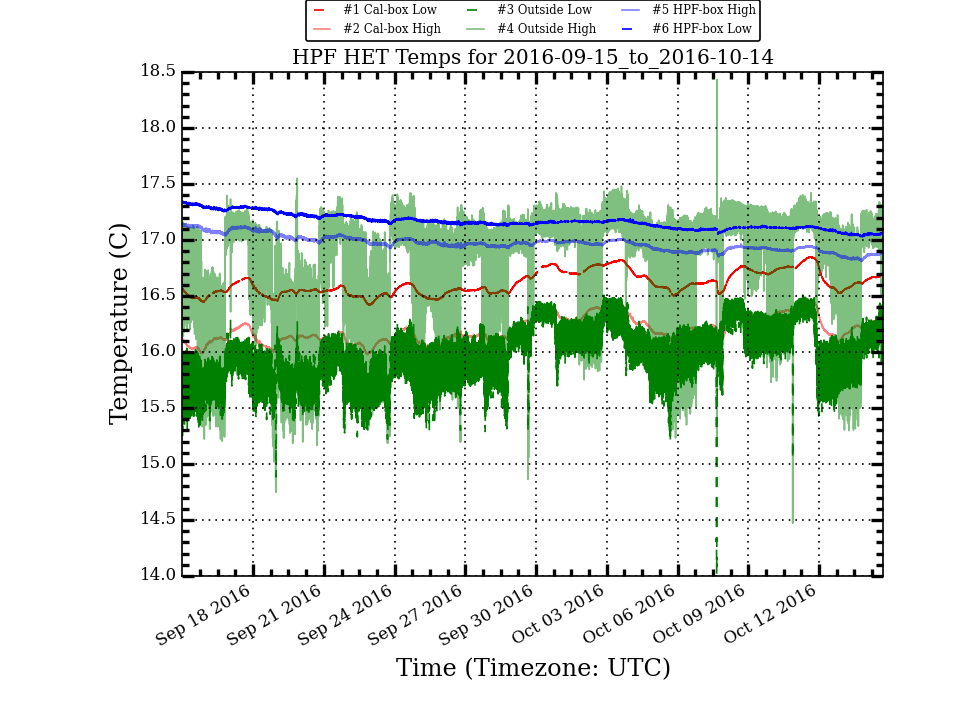
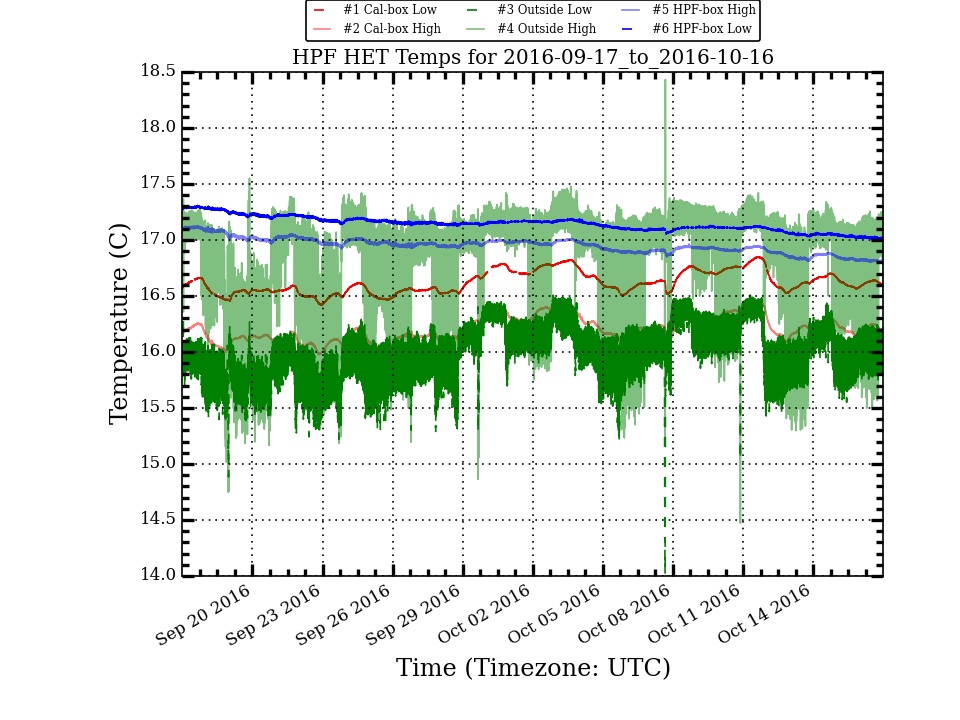
Update HPF Temp Plots

diff --git a/research/hpf_temps/plots/LakeShoreLogTotal_week_stats.html b/research/hpf_temps/plots/LakeShoreLogTotal_week_stats.html
@@ -10,56 +10,56 @@
  </TR>
  <TR>
   <TD>Cal_Low</TD>
-  <TD>16.693</TD>
-  <TD>0.082</TD>
-  <TD>16.705</TD>
+  <TD>16.664</TD>
+  <TD>0.085</TD>
+  <TD>16.637</TD>
   <TD>16.848</TD>
   <TD>16.525</TD>
   <TD>0.323</TD>
  </TR>
  <TR>
   <TD>Cal_High</TD>
-  <TD>16.293</TD>
-  <TD>0.090</TD>
-  <TD>16.299</TD>
+  <TD>16.262</TD>
+  <TD>0.093</TD>
+  <TD>16.238</TD>
   <TD>16.468</TD>
   <TD>16.087</TD>
   <TD>0.381</TD>
  </TR>
  <TR>
   <TD>Out_Low</TD>
-  <TD>16.150</TD>
-  <TD>0.215</TD>
-  <TD>16.181</TD>
+  <TD>16.068</TD>
+  <TD>0.210</TD>
+  <TD>16.076</TD>
   <TD>16.509</TD>
   <TD>15.040</TD>
   <TD>1.469</TD>
  </TR>
  <TR>
   <TD>Out_High</TD>
-  <TD>16.938</TD>
-  <TD>0.407</TD>
-  <TD>17.095</TD>
+  <TD>16.821</TD>
+  <TD>0.428</TD>
+  <TD>16.988</TD>
   <TD>17.422</TD>
   <TD>14.470</TD>
   <TD>2.952</TD>
  </TR>
  <TR>
   <TD>HPF_High</TD>
-  <TD>16.900</TD>
-  <TD>0.036</TD>
-  <TD>16.910</TD>
-  <TD>16.965</TD>
-  <TD>16.809</TD>
-  <TD>0.156</TD>
+  <TD>16.869</TD>
+  <TD>0.041</TD>
+  <TD>16.868</TD>
+  <TD>16.948</TD>
+  <TD>16.802</TD>
+  <TD>0.146</TD>
  </TR>
  <TR>
   <TD>HPF_Low</TD>
-  <TD>17.091</TD>
-  <TD>0.027</TD>
-  <TD>17.105</TD>
-  <TD>17.131</TD>
-  <TD>17.027</TD>
-  <TD>0.104</TD>
+  <TD>17.066</TD>
+  <TD>0.035</TD>
+  <TD>17.054</TD>
+  <TD>17.127</TD>
+  <TD>17.003</TD>
+  <TD>0.124</TD>
  </TR>
 </TABLE>

diff --git a/research/hpf_temps/plots/LakeShoreLogTotal_month_stats.html b/research/hpf_temps/plots/LakeShoreLogTotal_month_stats.html
@@ -10,56 +10,56 @@
  </TR>
  <TR>
   <TD>Cal_Low</TD>
-  <TD>16.614</TD>
-  <TD>0.102</TD>
-  <TD>16.585</TD>
+  <TD>16.621</TD>
+  <TD>0.098</TD>
+  <TD>16.606</TD>
   <TD>16.848</TD>
   <TD>16.421</TD>
   <TD>0.427</TD>
  </TR>
  <TR>
   <TD>Cal_High</TD>
-  <TD>16.201</TD>
-  <TD>0.114</TD>
-  <TD>16.172</TD>
+  <TD>16.210</TD>
+  <TD>0.108</TD>
+  <TD>16.199</TD>
   <TD>16.468</TD>
   <TD>15.978</TD>
   <TD>0.490</TD>
  </TR>
  <TR>
   <TD>Out_Low</TD>
-  <TD>15.990</TD>
-  <TD>0.251</TD>
-  <TD>16.000</TD>
+  <TD>16.007</TD>
+  <TD>0.242</TD>
+  <TD>16.020</TD>
   <TD>16.509</TD>
   <TD>14.006</TD>
   <TD>2.503</TD>
  </TR>
  <TR>
   <TD>Out_High</TD>
-  <TD>16.801</TD>
-  <TD>0.467</TD>
-  <TD>16.987</TD>
+  <TD>16.820</TD>
+  <TD>0.449</TD>
+  <TD>16.995</TD>
   <TD>18.433</TD>
   <TD>14.470</TD>
   <TD>3.963</TD>
  </TR>
  <TR>
   <TD>HPF_High</TD>
-  <TD>16.970</TD>
+  <TD>16.951</TD>
   <TD>0.068</TD>
-  <TD>16.967</TD>
-  <TD>17.147</TD>
-  <TD>16.809</TD>
-  <TD>0.338</TD>
+  <TD>16.958</TD>
+  <TD>17.125</TD>
+  <TD>16.802</TD>
+  <TD>0.323</TD>
  </TR>
  <TR>
   <TD>HPF_Low</TD>
-  <TD>17.163</TD>
-  <TD>0.067</TD>
-  <TD>17.157</TD>
-  <TD>17.345</TD>
-  <TD>17.027</TD>
-  <TD>0.318</TD>
+  <TD>17.144</TD>
+  <TD>0.065</TD>
+  <TD>17.148</TD>
+  <TD>17.309</TD>
+  <TD>17.003</TD>
+  <TD>0.306</TD>
  </TR>
 </TABLE>
